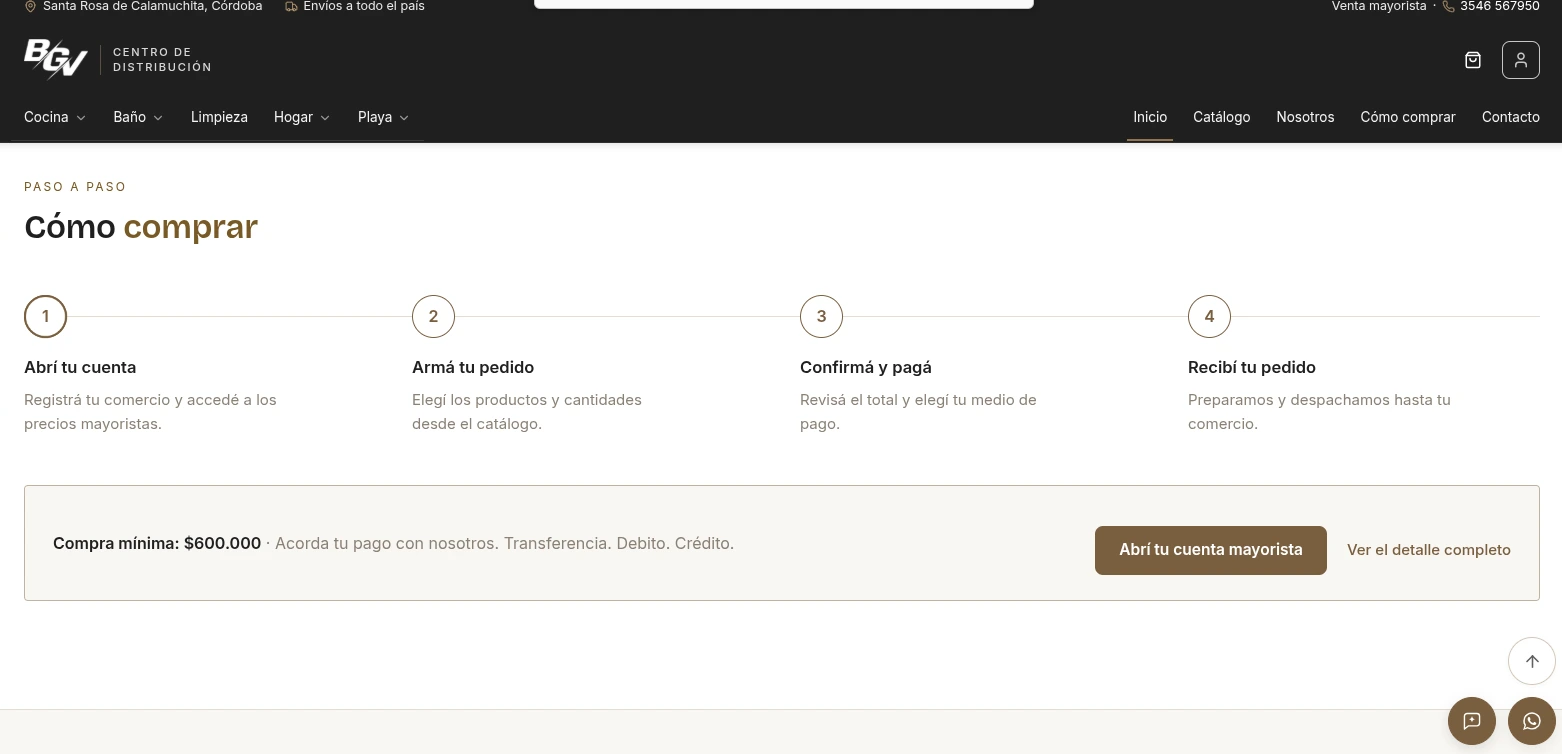
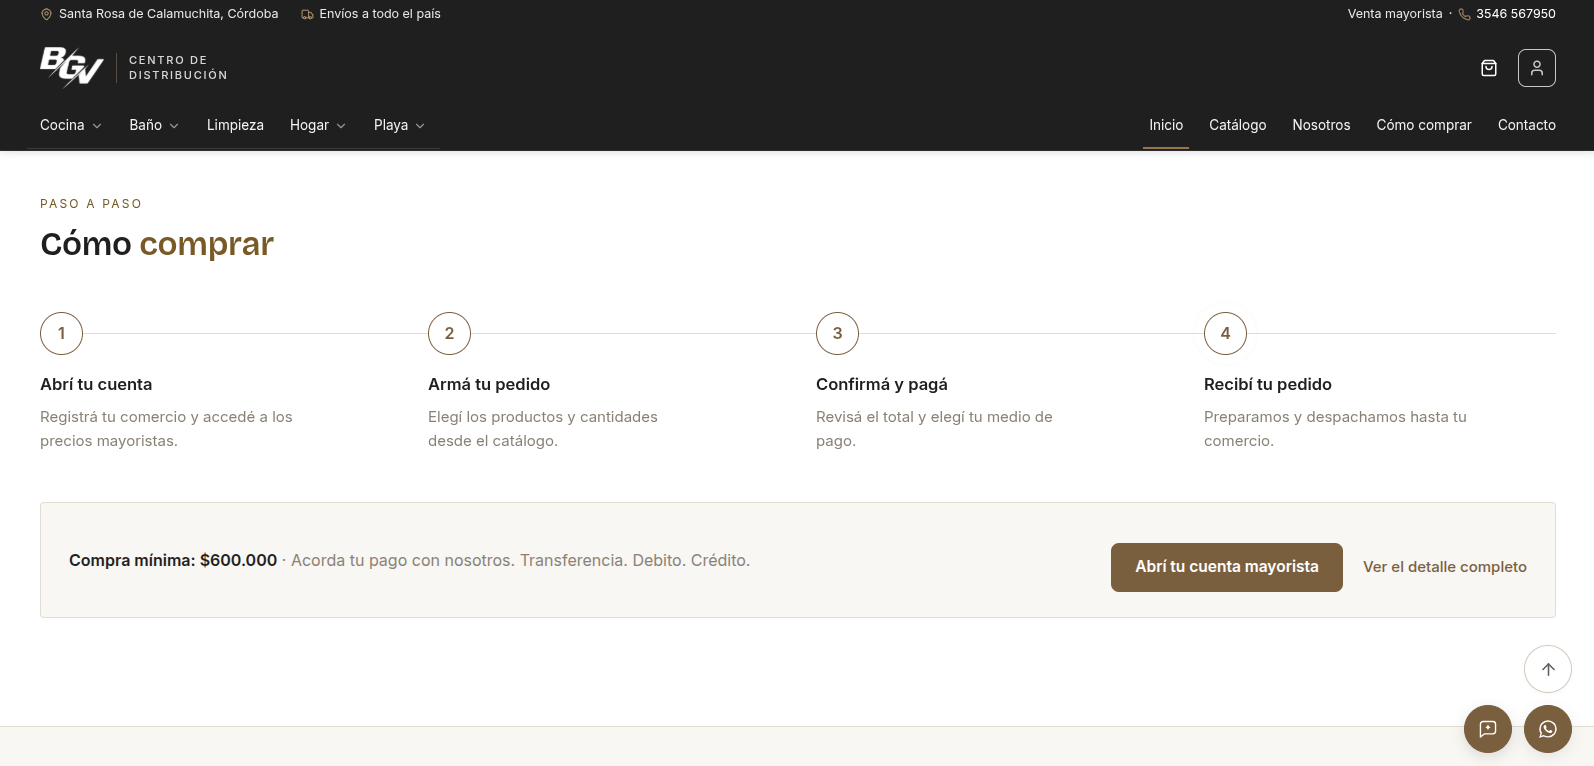
feat(instagram): BGV slide 03 con la captura nueva de Cómo comprar

diff --git a/instagram/carrusel-07-bgv/index.html b/instagram/carrusel-07-bgv/index.html
@@ -151,11 +151,11 @@
       <div class="glow" style="width:900px;height:900px;left:100px;bottom:-300px;background:radial-gradient(circle,rgba(181,156,248,0.3),transparent 65%)"></div>
       <div class="browser" style="left:300px;top:800px;width:900px">
         <div class="bar"><span></span><span></span><span></span></div>
-        <div class="crop" style="height:320px"><img src="media/d-conquien.png" alt="" style="left:0;top:-110px" /></div>
+        <div class="crop" style="height:320px"><img src="media/d-conquien.png" alt="" style="left:0;top:-195px" /></div>
       </div>
       <div class="browser" style="left:60px;top:950px;width:860px;z-index:4">
         <div class="bar"><span></span><span></span><span></span></div>
-        <div class="crop" style="height:360px"><img src="media/d-comocomprar-web.png" alt="" style="left:0;top:0" /></div>
+        <div class="crop" style="height:340px"><img src="media/d-comocomprar-web.png" alt="" style="left:0;top:0" /></div>
       </div>
       <div class="progress"><i style="width:42.9%"></i></div>
     </section>
